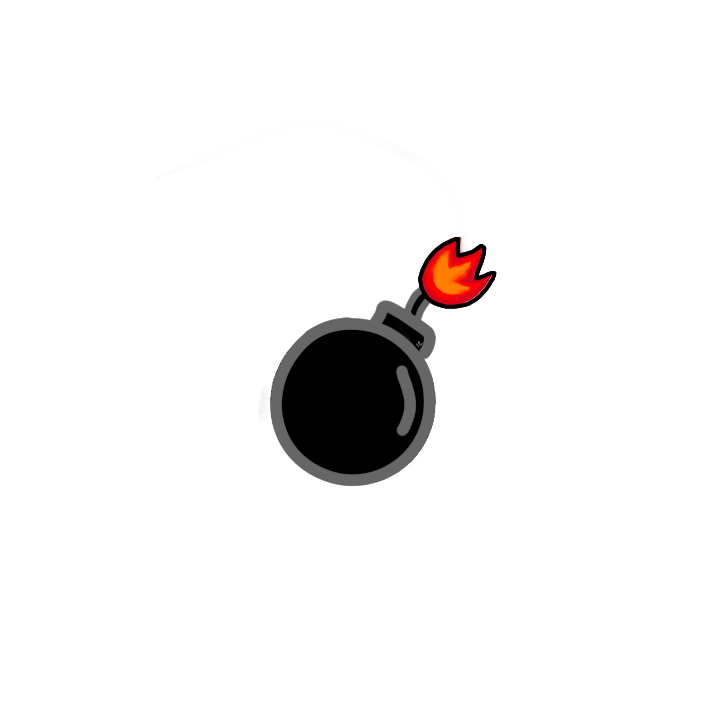
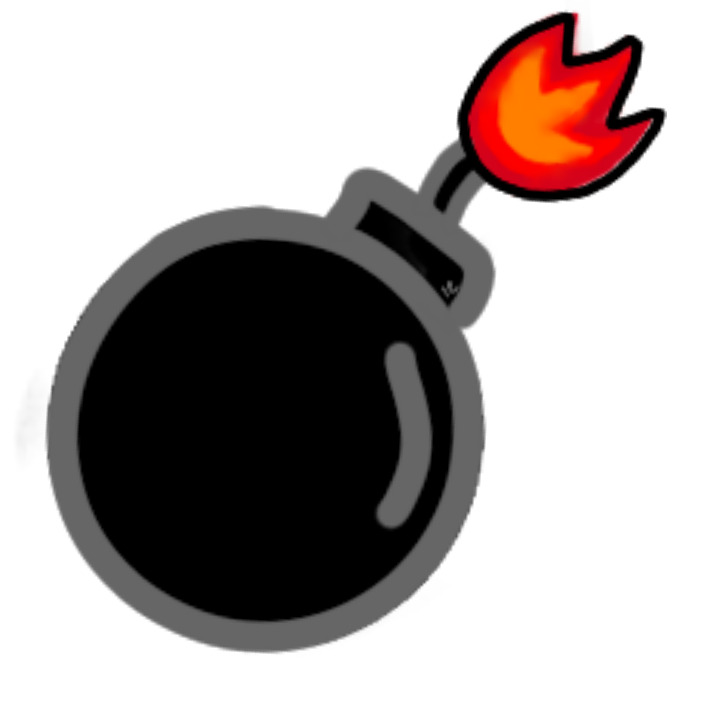
QPainter + Zoom

diff --git a/Client/src/partieQT.cpp b/Client/src/partieQT.cpp
@@ -9,10 +9,24 @@ gameInfo(nullptr){
   timer = new QTimer(this);
   connect(timer, &QTimer::timeout, this, &partieQT::update);
   setTimerIntervalle(50);
+
+  textureMur = new QPixmap[3]{
+    QPixmap("images/blocs/air.png"),
+    QPixmap("images/blocs/bloc.png"),
+    QPixmap("images/blocs/blocSolide.png")
+  };
+
+  skinSprite = new QPixmap[5]{
+    QPixmap("images/bomb.png"),
+    QPixmap("images/lombrics/lomb1.png"),
+    QPixmap("images/lombrics/lomb1.png"),
+    QPixmap("images/lombrics/lomb1.png"),
+    QPixmap("images/lombrics/lomb1.png")
+  };
 }
 
 void partieQT::update(){
-  //std::cout << "update" <<std::endl;
+  //std::cout << "update" <<std::eusedWeaponndl;
   QSize size = parent->size();
 
   if (size.height()!=screenHeight || size.width()!=screenWidth){
@@ -22,12 +36,14 @@ void partieQT::update(){
       uint32_t tempWidth = screenWidth/gameInfo->carte->getLargeur();
       uint32_t tempHeight = screenHeight/gameInfo->carte->getHauteur();
       blockWidth = min(tempWidth, tempHeight);
+      camX = 0;
+      camY = 0;
       drawMap();
     }
   }
   tempScreenWidth = size.width();
   tempScreenHeight = size.height();
-  //updateGame();
+  updateGame();
 }
 
 void partieQT::initWindow(){
@@ -47,40 +63,15 @@ void partieQT::initWindow(){
   tempScreenHeight = 0;
   gameScreenWidth = 0;
   gameScreenHeight = 0;
-  map = nullptr;
   mainLayout = new QGridLayout;
-  gameFrame = new QFrame;
-  mainLayout->addWidget(gameFrame, 0, 0);
-  setLayout(mainLayout);
+  gameLabel = new QLabel(this);
+  gamePixmap = nullptr;
+  //setLayout(mainLayout);
 
   initTime = std::chrono::high_resolution_clock::now();
   Block_Destroy destroyByServ;
   Degats_lombric lombricUpdatedByServ;
 
-
-  QPixmap blocTexture[] = {
-    QPixmap("images/blocs/air.png"),
-    QPixmap("images/blocs/bloc.png"),
-    QPixmap("images/blocs/blocSolide.png"),
-  };
-
-  std::cout << "setting case" <<std::endl;
-  for(int y=0; y<gameInfo->carte->getHauteur(); ++y){
-    mapWidget.push_back({});
-    for (int x=0; x<gameInfo->carte->getLargeur(); ++x){
-      QPixmap texture = blocTexture[gameInfo->carte->getColor(x,y)-1];
-      mapWidget[y].push_back(new Case(texture));
-    }
-  }
-  std::cout << "case set" <<std::endl;
-
-  for (auto lomb = gameInfo->spriteVector.begin(); lomb != gameInfo->spriteVector.end(); ++lomb){
-    int pos[2];
-    (*lomb)->getPos(pos);
-    mapWidget[pos[1]][pos[0]]->addLomb(dynamic_cast<Lombric_QT*>(*lomb));
-  }
-
-  std::cout << "done init" <<std::endl;
 }
 
 void partieQT::updateGame(){
@@ -92,7 +83,7 @@ void partieQT::updateGame(){
   if(spentTime >= gameParam.time_round && !movement)endRound = true;
 
   //std::cout << "gonna draw" <<std::endl;
-  //drawMap();
+  drawMap();
   //std::cout << "done drawing" <<std::endl;
 
   //vérifie si le tour a changé
@@ -160,11 +151,7 @@ void partieQT::updateGame(){
 }
 
 void partieQT::drawMap(){
-  if(map){delete map;}
-  gameFrame->hide();
-  map = new QGridLayout;
-  map->setVerticalSpacing(0);
-  map->setHorizontalSpacing(0);
+  if (gamePixmap){delete gamePixmap;gamePixmap=nullptr;}
 
   int nBlockWidth = screenWidth / blockWidth;
   int nBlockHeight = screenHeight / blockWidth;
@@ -172,19 +159,68 @@ void partieQT::drawMap(){
   nBlockWidth = min(nBlockWidth, gameInfo->carte->getLargeur());
   nBlockHeight = min(nBlockHeight, gameInfo->carte->getHauteur());
 
-  QRect r(0,0,nBlockWidth*blockWidth, nBlockHeight*blockWidth);
-  gameFrame->setFrameRect(r);
+  gamePixmap = new QPixmap(nBlockWidth*blockWidth, nBlockHeight*blockWidth);
+  gamePixmap->fill(QColor("transparent"));
 
   for(int y=0; y<nBlockHeight; ++y){
     for (int x=0; x<nBlockWidth; ++x){
-      //affichage blocks
-      //mapWidget[y][x]->draw(50,50);
-      map->addWidget(mapWidget[camY+y][camX+x], y, x);
-      mapWidget[y][x]->draw(blockWidth,blockWidth);
+      drawMur(x,y);
     }
   }
-  gameFrame->show();
-  gameFrame->setLayout(map);
+
+  drawSprites();
+  gameLabel->setScaledContents(true);
+  gameLabel->setPixmap(*gamePixmap);
+  gameLabel->adjustSize();
+}
+
+void partieQT::drawMur(int x, int y){//dessine le pos ème mur du tableau
+  QPainter painter(gamePixmap);
+  int numColor = gameInfo->carte->getColor(x,y)-1;
+  QPixmap texture = textureMur[numColor].scaled(blockWidth, blockWidth);
+  x *= blockWidth;
+  y *= blockWidth;
+  painter.drawPixmap(x, y, texture);
+}
+
+void partieQT::drawSprites(){
+  for(auto sprite=gameInfo->spriteVector.begin(); sprite != gameInfo->spriteVector.end(); ++sprite){
+    drawSprite(*sprite);
+  }
+}
+
+void partieQT::drawSprite(Sprite* s, int* oldPos, int* newPos){
+  QPainter painter(gamePixmap);
+
+  int pos[2];
+  s->getPos(pos);
+
+  int x = pos[0] * blockWidth;
+  int y = pos[1] * blockWidth;
+
+  QPixmap texture;
+  switch(s->getSkin()){
+    case PROJECTILE_SKIN:
+      texture = skinSprite[0].scaled(blockWidth, blockWidth);
+      break;
+    case '1':
+      texture = skinSprite[1].scaled(blockWidth, blockWidth);
+      break;
+    case '2':
+      texture = skinSprite[2].scaled(blockWidth, blockWidth);
+      break;
+    case '3':
+      texture = skinSprite[3].scaled(blockWidth, blockWidth);
+      break;
+    case '4':
+      texture = skinSprite[4].scaled(blockWidth, blockWidth);
+      break;
+    default:
+      texture = skinSprite[4].scaled(blockWidth, blockWidth);
+      break;
+  };
+  painter.drawPixmap(x, y, texture);
+
 }
 
 bool partieQT::updateSprites(double t){
@@ -270,8 +306,8 @@ bool partieQT::eventFilter(QObject* obj, QEvent* event){
         if (tempSizeBlock < MIN_SIZE_BLOCK){
           blockWidth = MIN_SIZE_BLOCK;
         }
-        else if (tempSizeBlock > gameFrame->frameRect().width() || tempSizeBlock > gameFrame->frameRect().height()){
-          blockWidth = min(gameFrame->frameRect().width(), gameFrame->frameRect().height());
+        else if (tempSizeBlock > gamePixmap->size().width() || tempSizeBlock > gamePixmap->size().height()){
+          blockWidth = min(gamePixmap->size().width(), gamePixmap->size().height());
         }
         else{
           blockWidth = tempSizeBlock;
@@ -279,4 +315,10 @@ bool partieQT::eventFilter(QObject* obj, QEvent* event){
         drawMap();
       }
     return false;
+}
+
+
+partieQT::~partieQT(){
+  delete[] textureMur;
+  delete[] skinSprite;
 }

diff --git a/Client/includes/partieQT.hpp b/Client/includes/partieQT.hpp
@@ -13,6 +13,8 @@
 #include <QRect>
 #include <QKeyEvent>
 #include <QWheelEvent>
+#include <QPainter>
+
 
 #include "client.hpp"
 #include "../../sharedFiles/includes/infoPartie.hpp"
@@ -86,21 +88,25 @@ private:
   uint32_t gameScreenWidth, gameScreenHeight;//taille de la fenêtre qui affiche l'overlay
   uint32_t overlayScreenWidth, overlayScreenHeight;
 
+  bool mustDrawWall;
+
   std::vector<std::vector<Case*>> mapWidget;
 
-  QGridLayout* map;
-
-  QFrame* gameFrame;
+  QLabel* gameLabel;
+  QPixmap* gamePixmap;
   QGridLayout* mainLayout;
 
-  //??????????????----
+  QPixmap *textureMur;
+  QPixmap *skinSprite;
+
+
   void drawMap();//dessine toute la carte
   void drawMur(int x, int y);//dessine 1 mur
-  void drawMur(int pos);
-  //------------------
+  void drawSprites();
+  void drawSprite(Sprite* s, int* oldPos=nullptr, int* newPos=nullptr);
+
 
   bool updateSprites(double t);// t = temps actuel en milliseconde
-  void drawSprite(Sprite* s, int* oldPos,int* newPos);//redessine le sprite
   void moveCurrentLombric(int mouvement);//peut prendre TRANSLATE_MOVE ou JUMP_MOVE en argument
 
   void addDeletedBlock(std::vector<int> v);//ajoute v dans blockDeleted
@@ -110,12 +116,11 @@ private:
 
   void initWindow() override;
   void updateGame();
-
   bool eventFilter(QObject* obj, QEvent* ev) override;
 public:
   partieQT(int id, MainWindow *parent, Client* client); //Constructor
   //info run(info information);
-  ~partieQT() = default; // Destructor
+  ~partieQT(); // Destructor
 public slots:
   void update();
 };

diff --git a/Client/src/client_Inattendus.cpp b/Client/src/client_Inattendus.cpp
@@ -191,12 +191,6 @@ void Client::notifyStarted(message& m){ //serveur nevoie message quand la partie
 
 	MyReadFile.close();
 
-	QPixmap skinLombs[] = {
-    QPixmap("images/lombrics/lomb1.png"),
-    QPixmap("images/lombrics/lomb1.png"),
-    QPixmap("images/lombrics/lomb1.png"),
-    QPixmap("images/lombrics/lomb1.png")
-  };
 
 	gameInfo->carte = new Map(largeur, hauteur, map);
 
@@ -207,9 +201,9 @@ void Client::notifyStarted(message& m){ //serveur nevoie message quand la partie
 
 	//remplis le vecteur des lombris
 	for (int i=0;i<obj.lomb_size();i++){
-		//gameInfo->spriteVector.push_back(new Lombric_c(obj.lomb(i).id_lomb(), obj.lomb(i).pos_x(), obj.lomb(i).pos_y(), '0'+ obj.lomb(i).team_lomb(),100, obj.lomb(i).name_lomb()));
-		QPixmap skin = skinLombs[obj.lomb(i).team_lomb()-1];
-		gameInfo->spriteVector.push_back(new Lombric_QT(skin, skin, obj.lomb(i).id_lomb(), obj.lomb(i).pos_x(), obj.lomb(i).pos_y(), '0'+ obj.lomb(i).team_lomb(),100, obj.lomb(i).name_lomb()));
+		gameInfo->spriteVector.push_back(new Lombric_c(obj.lomb(i).id_lomb(), obj.lomb(i).pos_x(), obj.lomb(i).pos_y(), '0'+ obj.lomb(i).team_lomb(),100, obj.lomb(i).name_lomb()));
+		//QPixmap skin = skinLombs[obj.lomb(i).team_lomb()-1];
+		//gameInfo->spriteVector.push_back(new Lombric_QT(skin, skin, obj.lomb(i).id_lomb(), obj.lomb(i).pos_x(), obj.lomb(i).pos_y(), '0'+ obj.lomb(i).team_lomb(),100, obj.lomb(i).name_lomb()));
 
 		gameInfo->teamsVector[obj.lomb(i).team_lomb()-1]->addLomb(dynamic_cast<Lombric_c*>(gameInfo->spriteVector[i]));
 	}
